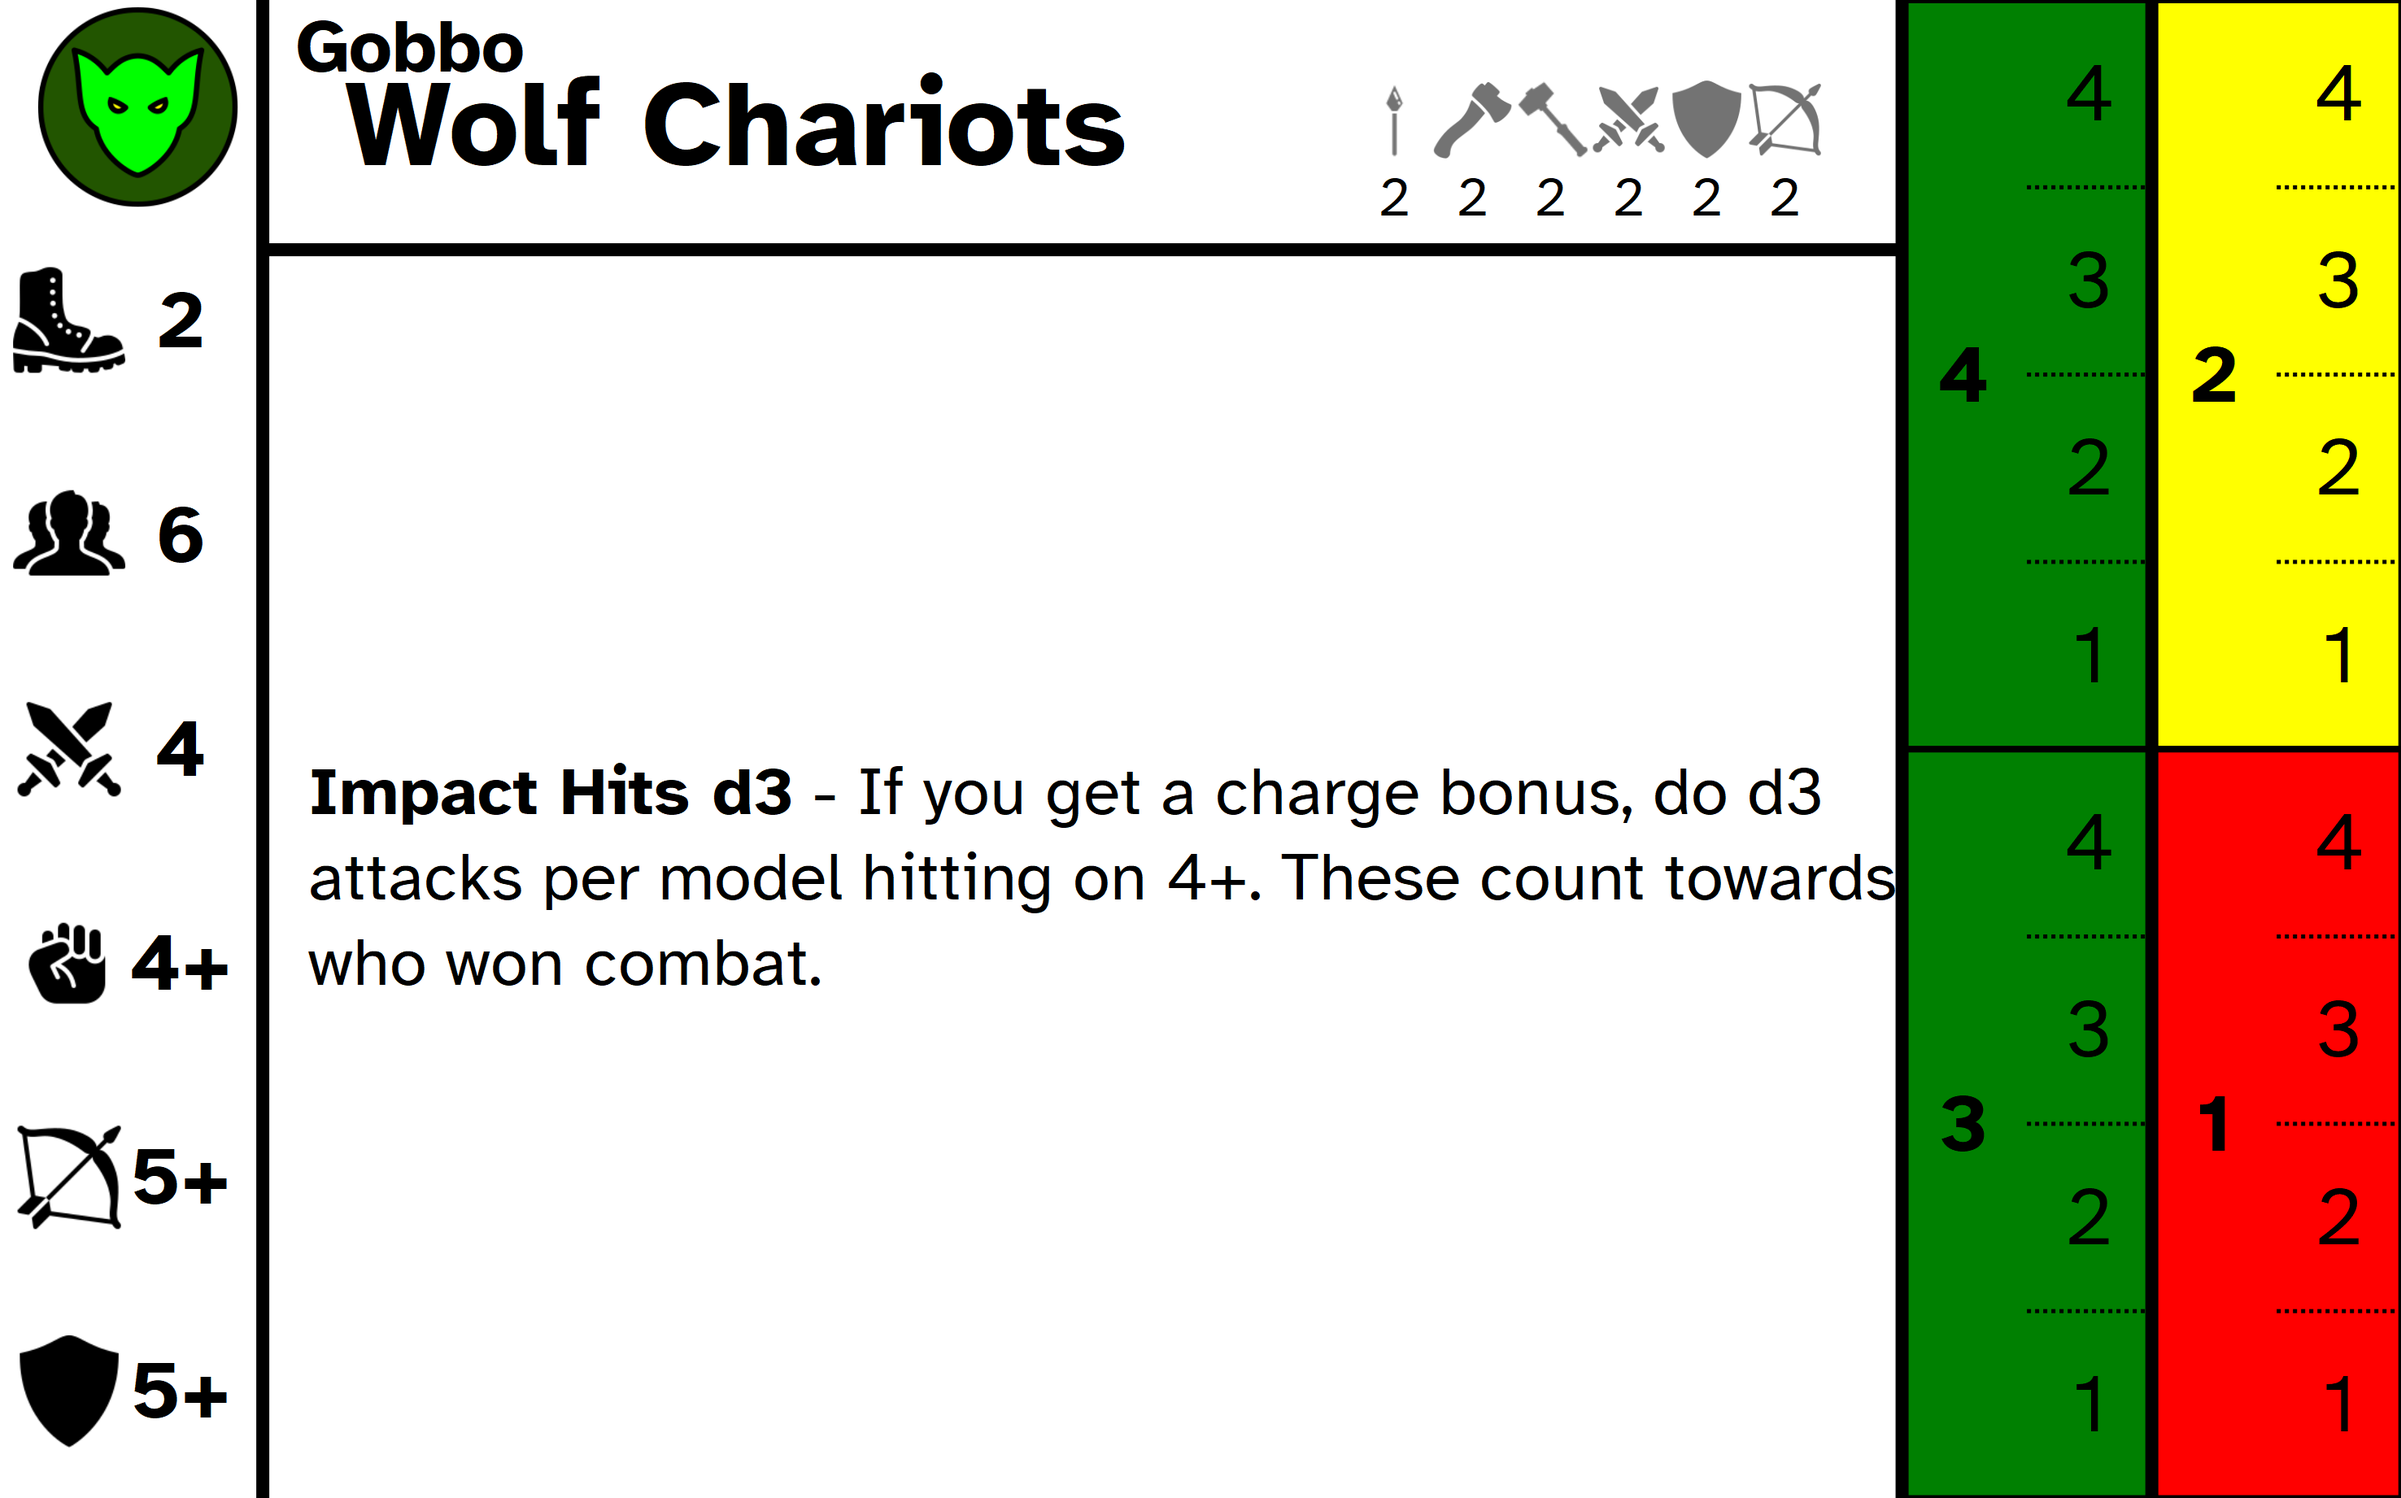
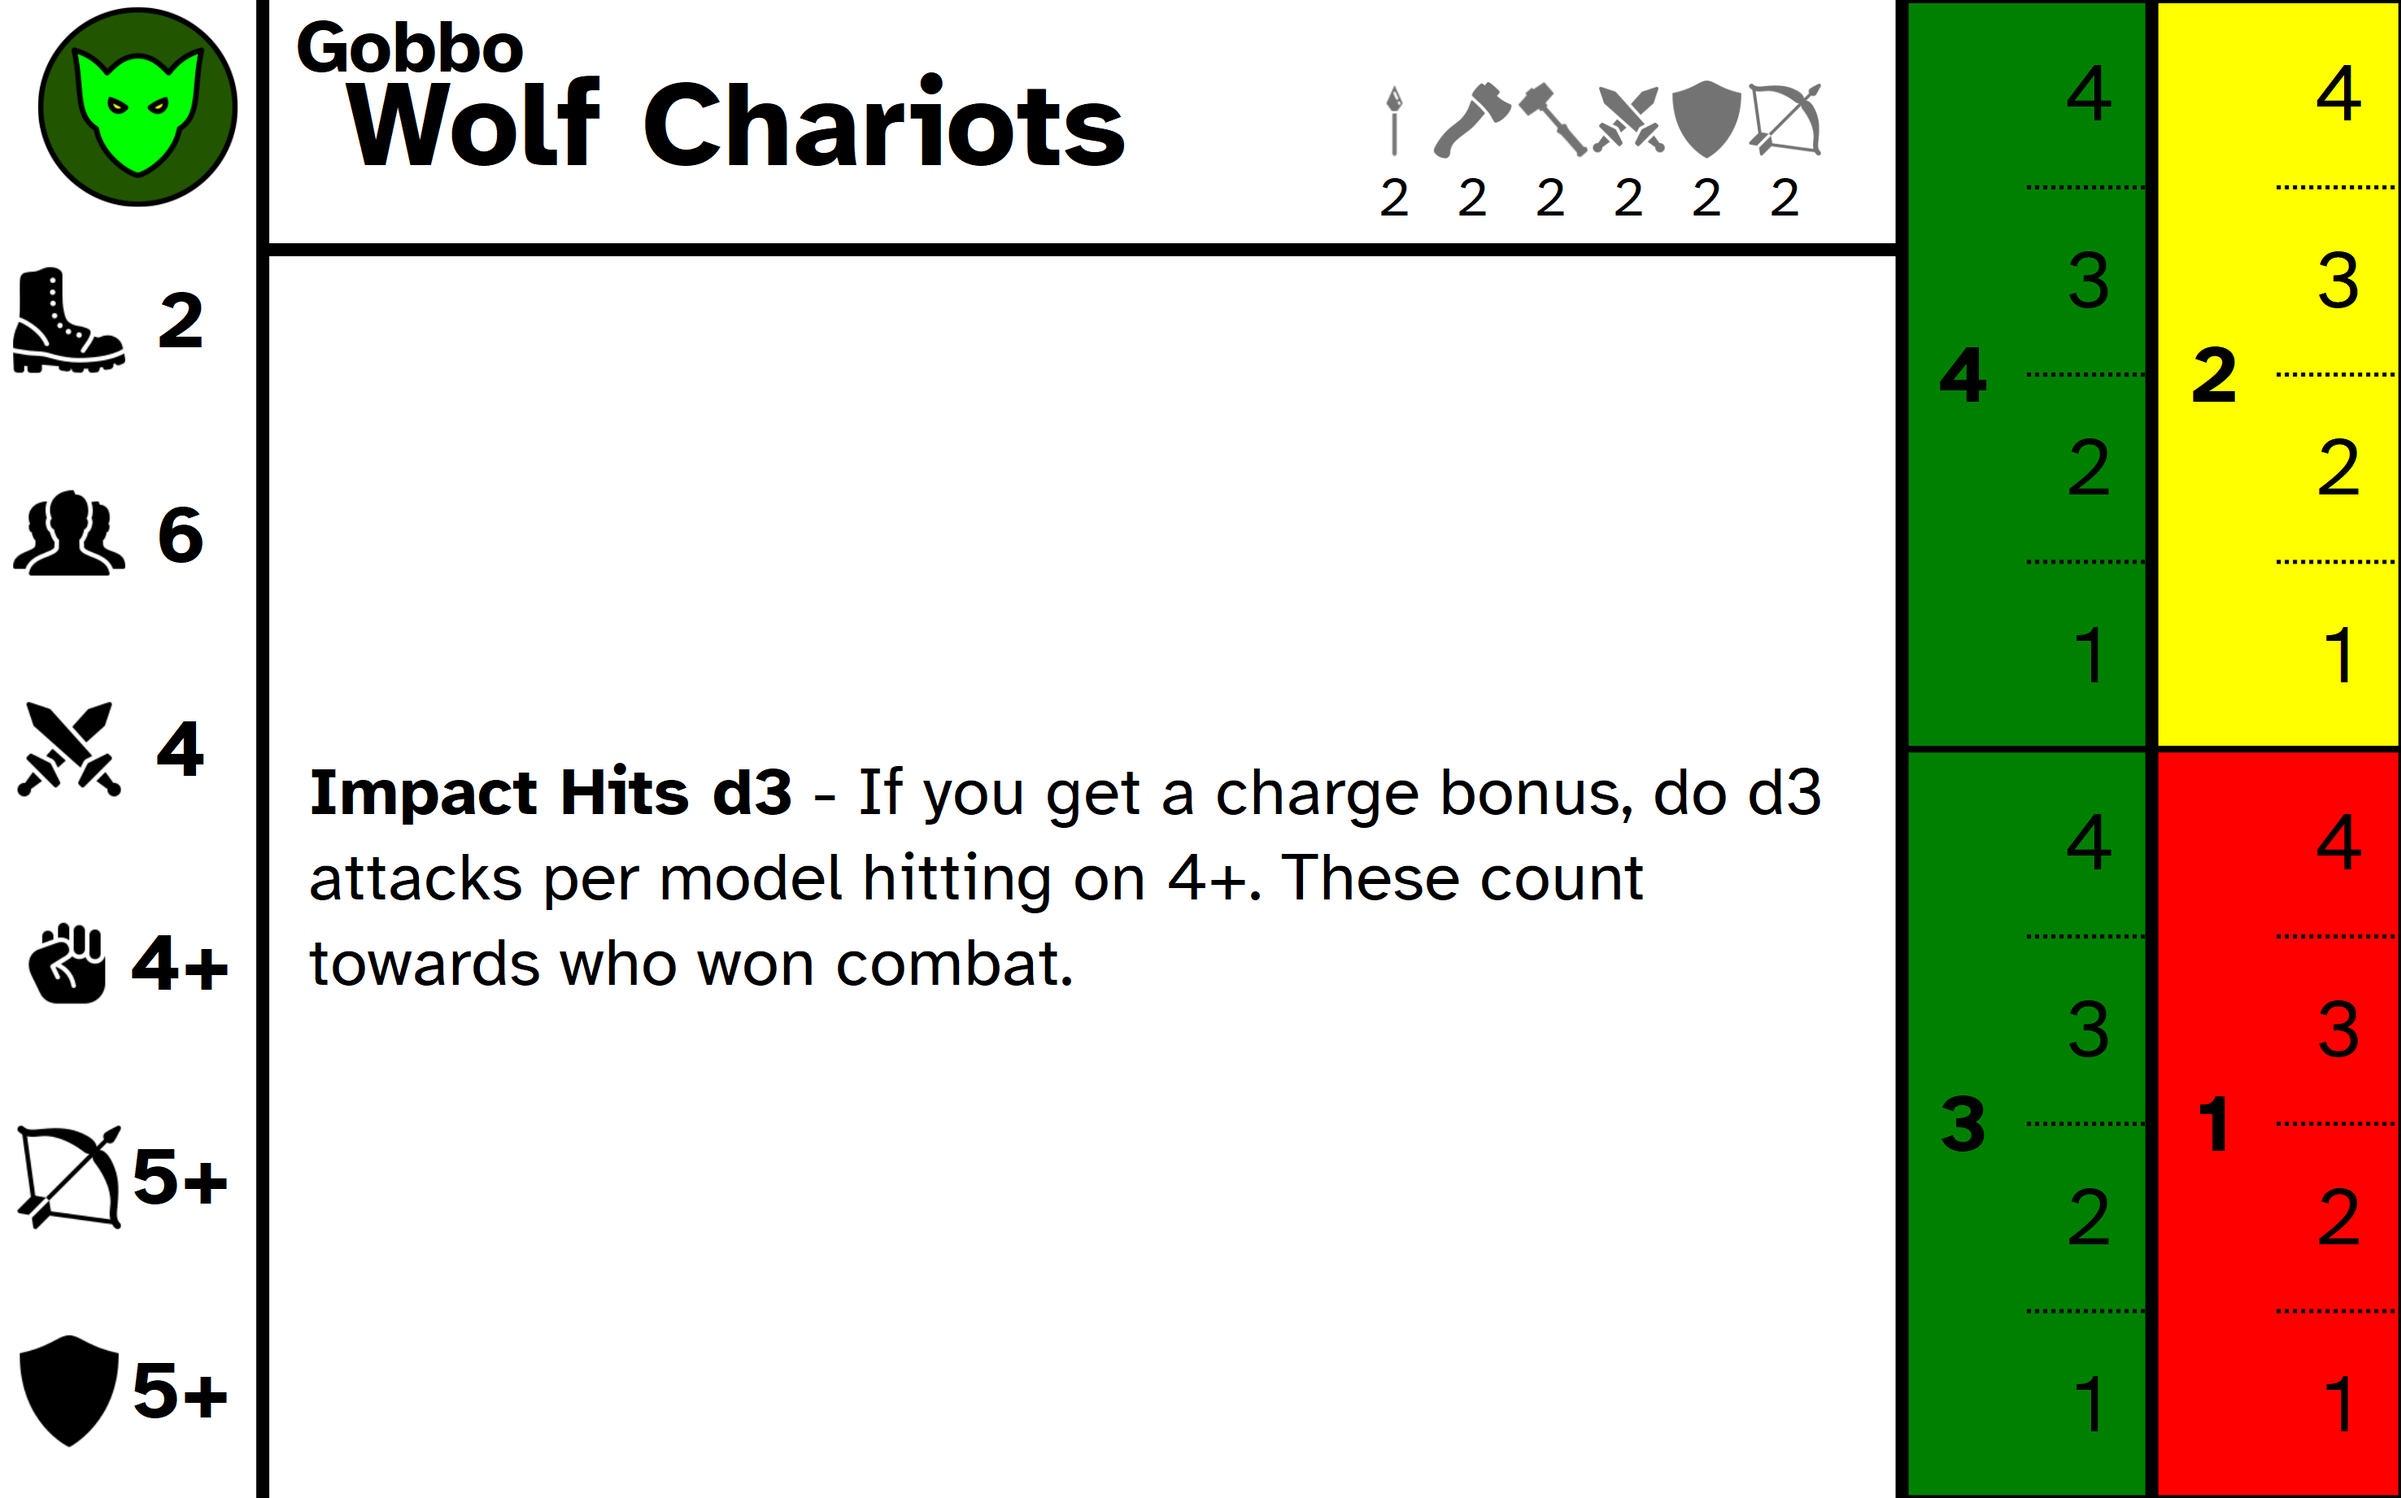
Fixed overlap

Changed region(s): [[0.1247, 0.6189, 0.4363, 0.6808], [0.6856, 0.557, 0.7791, 0.6189]]

diff --git a/card-generator/cardmaker.rb b/card-generator/cardmaker.rb
@@ -72,7 +72,7 @@ WEAPONS_Y = PAD + TITLE_BAR_H - (WEAPON_SIZE + STROKE)
 POWERS_PAD = FACTION_TEXT_PAD
 POWERS_X = BAR_END_X + STROKE + POWERS_PAD
 POWERS_Y = PAD + TITLE_BAR_H + STROKE
-POWERS_W = CONTENT_EDGE - (BAR_END_X + STROKE)
+POWERS_W = CONTENT_EDGE - (POWERS_X + POWERS_PAD)
 POWERS_H = CARD_HEIGHT - (POWERS_Y + STROKE / 2)
 
 # Main
